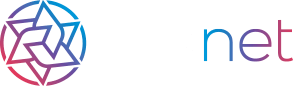
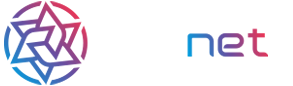
#IRISHOME-98 更新官网logo

Changed region(s): [[0.0, 0.0, 0.3072, 1.0], [0.6143, 0.2326, 1.0, 0.7209]]

diff --git a/src/main.js b/src/main.js
@@ -82,6 +82,260 @@ export function createApp() {
 
 
 
+//兼容火狐 多行显示省略号...
+// 注册一个全局自定义指令 `v-clamp`
+Vue.directive('clamp', {
+    // 当被绑定的元素插入到 DOM 中时……
+    update: function (el, binding) {
+        function clamp(element, options) {
+            options = options || {};
 
+            var self = this,
+                win = window,
+                opt = {
+                    clamp: options.clamp || 2,
+                    useNativeClamp: typeof(options.useNativeClamp) != 'undefined' ? options.useNativeClamp : true,
+                    splitOnChars: options.splitOnChars || ['.', '-', '–', '—', ' '], //Split on sentences (periods), hypens, en-dashes, em-dashes, and words (spaces).
+                    animate: options.animate || false,
+                    truncationChar: options.truncationChar || '…',
+                    truncationHTML: options.truncationHTML
+                },
+
+                sty = element.style,
+                originalText = element.innerHTML,
+
+                supportsNativeClamp = typeof(element.style.webkitLineClamp) != 'undefined',
+                clampValue = opt.clamp,
+                isCSSValue = clampValue.indexOf && (clampValue.indexOf('px') > -1 || clampValue.indexOf('em') > -1),
+                truncationHTMLContainer;
+
+            if (opt.truncationHTML) {
+                truncationHTMLContainer = document.createElement('span');
+                truncationHTMLContainer.innerHTML = opt.truncationHTML;
+            }
+
+
+            // UTILITY FUNCTIONS __________________________________________________________
+
+            /**
+             * Return the current style for an element.
+             * @param {HTMLElement} elem The element to compute.
+             * @param {string} prop The style property.
+             * @returns {number}
+             */
+            function computeStyle(elem, prop) {
+                if (!win.getComputedStyle) {
+                    win.getComputedStyle = function(el, pseudo) {
+                        this.el = el;
+                        this.getPropertyValue = function(prop) {
+                            var re = /(\-([a-z]){1})/g;
+                            if (prop == 'float') prop = 'styleFloat';
+                            if (re.test(prop)) {
+                                prop = prop.replace(re, function() {
+                                    return arguments[2].toUpperCase();
+                                });
+                            }
+                            return el.currentStyle && el.currentStyle[prop] ? el.currentStyle[prop] : null;
+                        };
+                        return this;
+                    };
+                }
+
+                return win.getComputedStyle(elem, null).getPropertyValue(prop);
+            }
+
+            /**
+             * Returns the maximum number of lines of text that should be rendered based
+             * on the current height of the element and the line-height of the text.
+             */
+            function getMaxLines(height) {
+                var availHeight = height || element.clientHeight,
+                    lineHeight = getLineHeight(element);
+
+                return Math.max(Math.floor(availHeight / lineHeight), 0);
+            }
+
+            /**
+             * Returns the maximum height a given element should have based on the line-
+             * height of the text and the given clamp value.
+             */
+            function getMaxHeight(clmp) {
+                var lineHeight = getLineHeight(element);
+                return lineHeight * clmp;
+            }
+
+            /**
+             * Returns the line-height of an element as an integer.
+             */
+            function getLineHeight(elem) {
+                var lh = computeStyle(elem, 'line-height');
+                if (lh == 'normal') {
+                    // Normal line heights vary from browser to browser. The spec recommends
+                    // a value between 1.0 and 1.2 of the font size. Using 1.1 to split the diff.
+                    lh = parseInt(computeStyle(elem, 'font-size')) * 1.2;
+                }
+                return parseInt(lh);
+            }
+
+
+            // MEAT AND POTATOES (MMMM, POTATOES...) ______________________________________
+            var splitOnChars = opt.splitOnChars.slice(0),
+                splitChar = splitOnChars[0],
+                chunks,
+                lastChunk;
+
+            /**
+             * Gets an element's last child. That may be another node or a node's contents.
+             */
+            function getLastChild(elem) {
+                //Current element has children, need to go deeper and get last child as a text node
+                if (elem.lastChild.children && elem.lastChild.children.length > 0) {
+                    return getLastChild(Array.prototype.slice.call(elem.children).pop());
+                }
+                //This is the absolute last child, a text node, but something's wrong with it. Remove it and keep trying
+                else if (!elem.lastChild || !elem.lastChild.nodeValue || elem.lastChild.nodeValue === '' || elem.lastChild.nodeValue == opt.truncationChar) {
+                    elem.lastChild.parentNode.removeChild(elem.lastChild);
+                    return getLastChild(element);
+                }
+                //This is the last child we want, return it
+                else {
+                    return elem.lastChild;
+                }
+            }
+
+            /**
+             * Removes one character at a time from the text until its width or
+             * height is beneath the passed-in max param.
+             */
+            function truncate(target, maxHeight) {
+                if (!maxHeight) {
+                    return;
+                }
+
+                /**
+                 * Resets global variables.
+                 */
+                function reset() {
+                    splitOnChars = opt.splitOnChars.slice(0);
+                    splitChar = splitOnChars[0];
+                    chunks = null;
+                    lastChunk = null;
+                }
+
+                var nodeValue = target.nodeValue.replace(opt.truncationChar, '');
+
+                //Grab the next chunks
+                if (!chunks) {
+                    //If there are more characters to try, grab the next one
+                    if (splitOnChars.length > 0) {
+                        splitChar = splitOnChars.shift();
+                    }
+                    //No characters to chunk by. Go character-by-character
+                    else {
+                        splitChar = '';
+                    }
+
+                    chunks = nodeValue.split(splitChar);
+                }
+
+                //If there are chunks left to remove, remove the last one and see if
+                // the nodeValue fits.
+                if (chunks.length > 1) {
+                    // console.log('chunks', chunks);
+                    lastChunk = chunks.pop();
+                    // console.log('lastChunk', lastChunk);
+                    applyEllipsis(target, chunks.join(splitChar));
+                }
+                //No more chunks can be removed using this character
+                else {
+                    chunks = null;
+                }
+
+                //Insert the custom HTML before the truncation character
+                if (truncationHTMLContainer) {
+                    target.nodeValue = target.nodeValue.replace(opt.truncationChar, '');
+                    element.innerHTML = target.nodeValue + ' ' + truncationHTMLContainer.innerHTML + opt.truncationChar;
+                }
+
+                //Search produced valid chunks
+                if (chunks) {
+                    //It fits
+                    if (element.clientHeight <= maxHeight) {
+                        //There's still more characters to try splitting on, not quite done yet
+                        if (splitOnChars.length >= 0 && splitChar !== '') {
+                            applyEllipsis(target, chunks.join(splitChar) + splitChar + lastChunk);
+                            chunks = null;
+                        }
+                        //Finished!
+                        else {
+                            return element.innerHTML;
+                        }
+                    }
+                }
+                //No valid chunks produced
+                else {
+                    //No valid chunks even when splitting by letter, time to move
+                    //on to the next node
+                    if (splitChar === '') {
+                        applyEllipsis(target, '');
+                        target = getLastChild(element);
+
+                        reset();
+                    }
+                }
+
+                //If you get here it means still too big, let's keep truncating
+                if (opt.animate) {
+                    setTimeout(function() {
+                        truncate(target, maxHeight);
+                    }, opt.animate === true ? 10 : opt.animate);
+                } else {
+                    return truncate(target, maxHeight);
+                }
+            }
+
+            function applyEllipsis(elem, str) {
+                elem.nodeValue = str + opt.truncationChar;
+            }
+
+
+            // CONSTRUCTOR ________________________________________________________________
+
+            if (clampValue == 'auto') {
+                clampValue = getMaxLines();
+            } else if (isCSSValue) {
+                clampValue = getMaxLines(parseInt(clampValue));
+            }
+
+            var clampedText;
+            if (supportsNativeClamp && opt.useNativeClamp) {
+                sty.overflow = 'hidden';
+                sty.textOverflow = 'ellipsis';
+                sty.webkitBoxOrient = 'vertical';
+                sty.display = '-webkit-box';
+                sty.webkitLineClamp = clampValue;
+
+                if (isCSSValue) {
+                    sty.height = opt.clamp + 'px';
+                }
+            } else {
+                var height = getMaxHeight(clampValue);
+                if (height <= element.clientHeight) {
+                    console.log(getLastChild(element));
+                    clampedText = truncate(getLastChild(element), height);
+                }
+            }
+
+            return {
+                'original': originalText,
+                'clamped': clampedText
+            };
+        }
+
+        clamp(el,{clamp: 2})
+
+
+    }
+})
 
 

diff --git a/src/assets/style/mainnetApp.less b/src/assets/style/mainnetApp.less
@@ -236,7 +236,7 @@ a::selection{
   padding: 20px 25px 100px 25px;
   background: #2E2156;
   .join_content{
-    font-size: 15px;
+    font-size: 24px;
     color: #FFF;
 
   }
@@ -325,7 +325,7 @@ a::selection{
     padding: 0 25px;
     background: #2E2156;
     .announcement_title{
-      font-size: 15px;
+      font-size: 24px;
       color: #fff;
       padding: 20px 0 0 0;
     }
@@ -344,15 +344,25 @@ a::selection{
         padding: 10px 10px 0 10px;
         display: flex;
         background: #724be3;
+        justify-content: space-between;
         span:nth-child(1){
-          flex: 1;
           line-height: 18px;
-          font-size: 15px;
+          height: 36px;
+          overflow:hidden;
+          text-overflow:ellipsis;
+          display:-webkit-box;
+          -webkit-box-orient:vertical;
+          -webkit-line-clamp:2;
+          color: #cbc8d4;
         }
         .timestamp_content{
+          white-space: nowrap;
+          width: 84px;
           padding-left: 20px;
-          font-size: 11px;
+          font-size: 12px;
           line-height: 18px;
+          text-align: right;
+          color: #cbc8d4;
         }
       }
     }

diff --git a/src/assets/style/mainnet.less b/src/assets/style/mainnet.less
@@ -92,18 +92,29 @@
                 padding: 10px 10px 0 10px;
                 font-size: 14px;
                 display: flex;
+                justify-content: space-between;
                 background: #724be3;
                 span:nth-child(1){
                   flex: 1;
                   width: 240px;
+                  height: 36px;
                   letter-spacing: 1px;
                   line-height: 18px;
+                  overflow:hidden;
+                  text-overflow:ellipsis;
+                  display:-webkit-box;
+                  -webkit-box-orient:vertical;
+                  -webkit-line-clamp:2;
+                  color: #cbc8d4;
+
                 }
                 .timestamp_content{
                   font-size: 14px;
                   line-height: 18px;
                   min-width: 92px;
                   padding-left: 20px;
+                  color: #cbc8d4;
+                  text-align: right;
                 }
               }
             }

diff --git a/src/components/index_v2.vue b/src/components/index_v2.vue
@@ -77,8 +77,8 @@
                     </swipe-item>
                 </swipe>
                 <div class="tool">
-                    <img src="../assets/left.png" style="float: left;" @click="next"/>
-                    <img src="../assets/right.png" style="float: right;" @click="prev"/>
+                    <img src="../assets/left.png" style="float: left;" @click="prev"/>
+                    <img src="../assets/right.png" style="float: right;" @click="next"/>
                 </div>
                 <div class="mint-swipe-indicators" style="display: block">
                     <div v-for="(item,index) in $store.state.messages.logo" :class="{'active':item.active}"

diff --git a/src/components/MainNet.vue b/src/components/MainNet.vue
@@ -67,7 +67,7 @@
                 </div>
                 <div class="news_container">
                     <div class="news_content_wrap">
-                        <h3 class="news_title">Announcements</h3>
+                        <h3 class="news_title"><p>{{$store.state.lang=='CN'?'公告':'Announcements'}}</p></h3>
                         <div class="hr_vertical"></div>
                         <ul class="news_content">
                             <li v-for="(item , index) in $store.state.messages.announcements">

diff --git a/src/components/MainNetApp.vue b/src/components/MainNetApp.vue
@@ -46,7 +46,7 @@
                 </div>
                 <div class="announcement_content">
                     <div class="announcement_title">
-                        <p>Announcements</p>
+                        <p>{{$store.state.lang=='CN'?'公告':'Announcements'}}</p>
                         <p class="hr_vertical"></p>
                     </div>
                     <ul class="announcement_list_content">

diff --git a/src/assets/style/index.less b/src/assets/style/index.less
@@ -682,7 +682,6 @@
 }
 
 .what_txt_title {
-    animation: txtanim 1s linear;
     div{
       color: #fff;
     }
@@ -750,7 +749,6 @@
     height: 2px;
     margin-top: 20px;
     background: #774be3;
-    animation: line 1s;
 }
 
 .collaboration_title_none {
